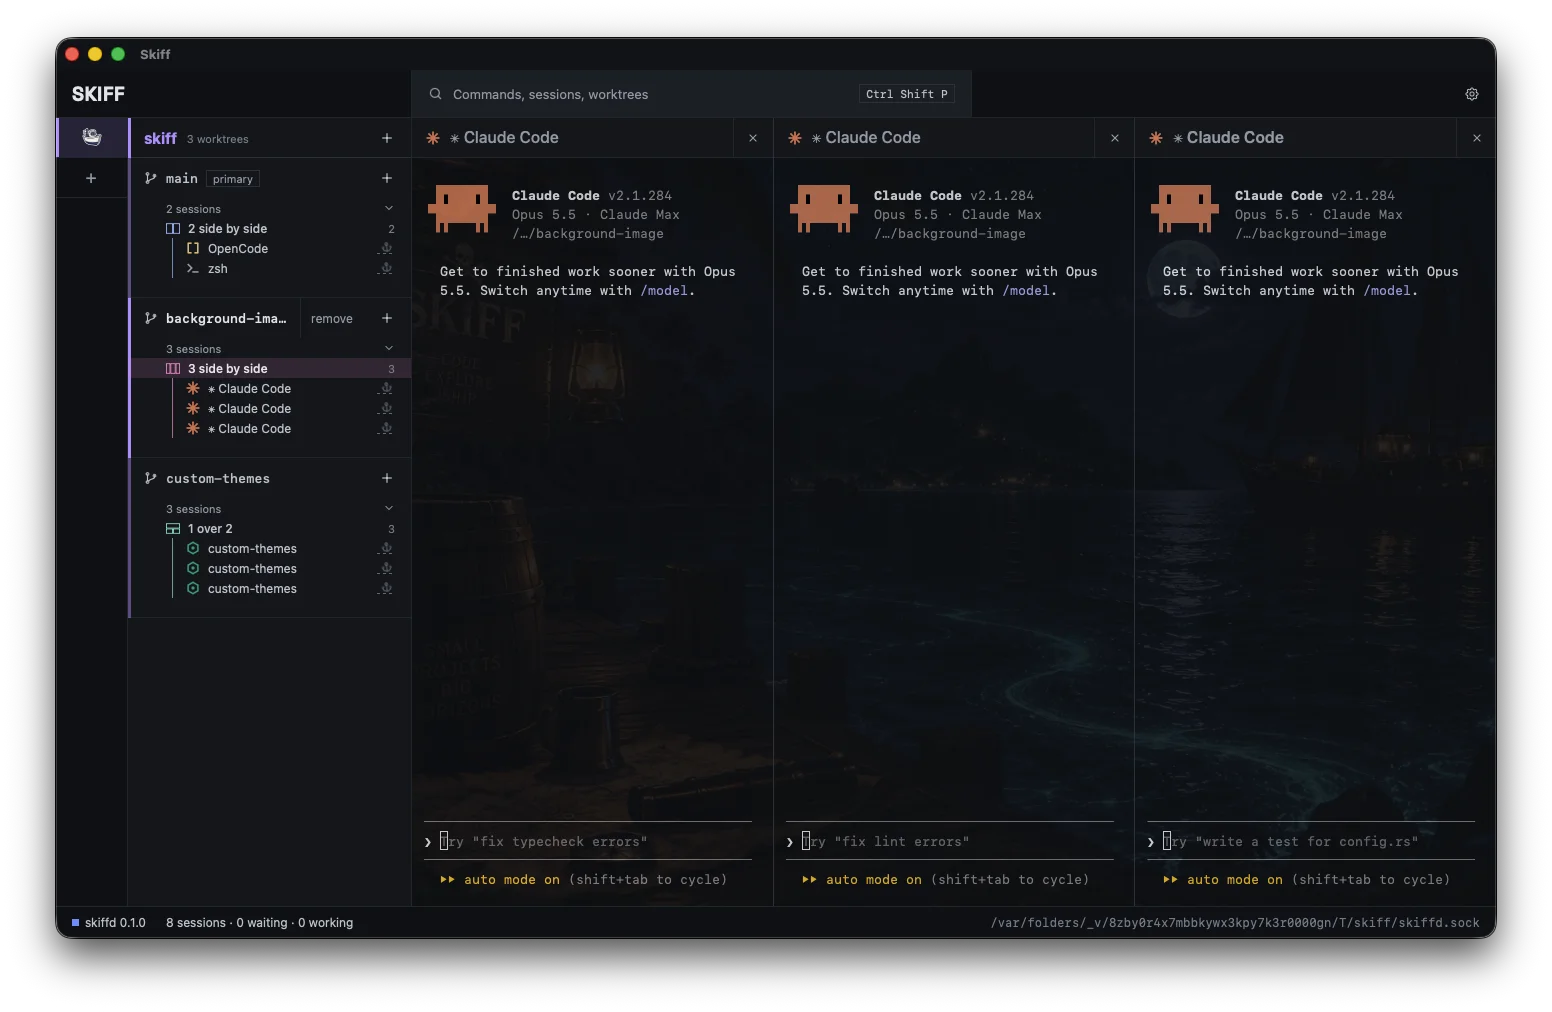
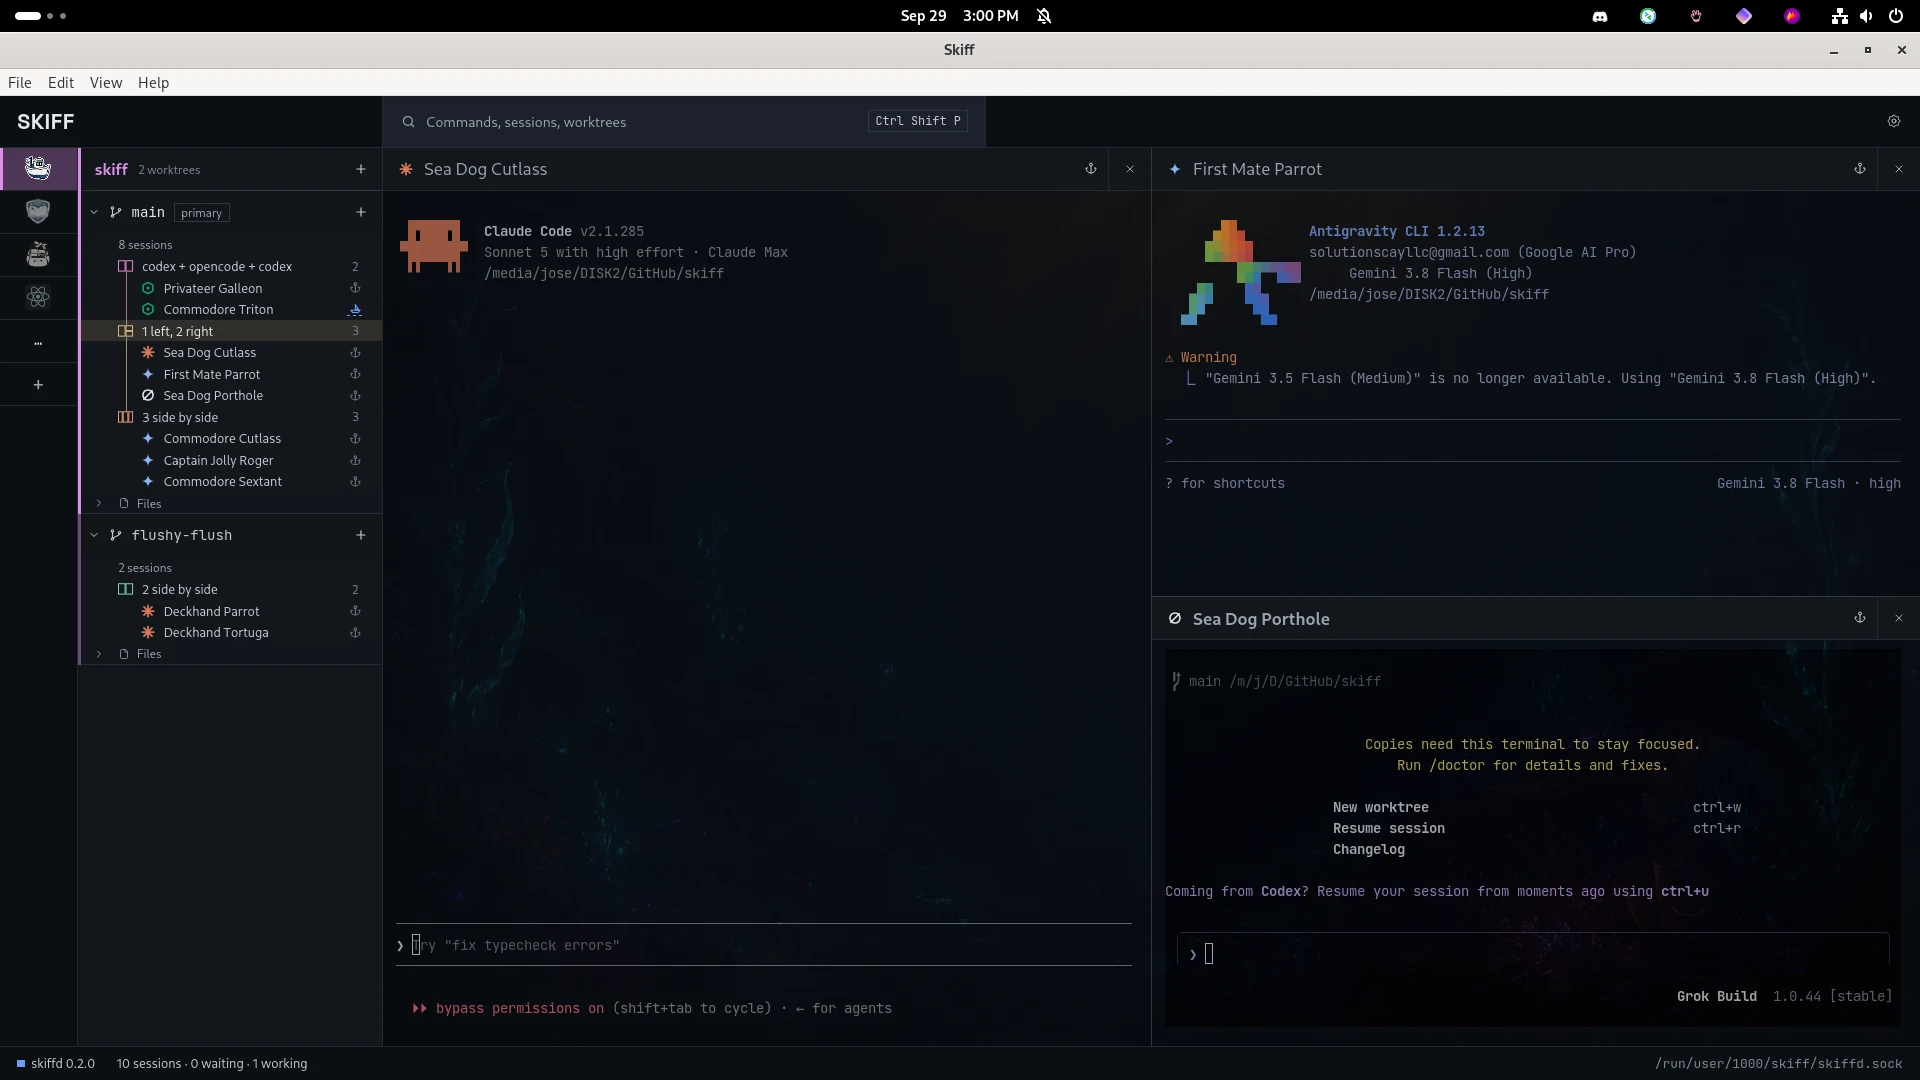
Point README and AGENTS.md at the wiki Glossary; refresh screenshot

diff --git a/README.md b/README.md
@@ -4,7 +4,7 @@
 
 A desktop app for running many coding agents side by side, on Linux and macOS.
 
-<p align="center"><img src=".github/screenshot.webp" alt="Skiff on macOS: a project with three worktrees, and three Claude Code sessions side by side over a project background"></p>
+<p align="center"><img src=".github/screenshot.webp" alt="Skiff on Linux: a project with two worktrees, and three agent sessions in a one-left, two-right layout over a project background"></p>
 
 You add a project (a Git repository), make worktrees in it, and start agent or shell sessions in each worktree. Sessions can sit side by side in a group. Each group has a name and a terminal theme, and so does each project.
 
@@ -26,6 +26,9 @@ apps/desktop         Tauri v2 app, vanilla TypeScript + xterm.js
 ```
 
 ## Development
+
+See the [wiki Glossary](https://github.com/solutionscay/skiff/wiki/Glossary) for the terms
+this codebase uses for its own screen areas, session-tree contents, and keyboard navigation.
 
 ```
 cd apps/desktop && pnpm install && pnpm tauri dev

diff --git a/AGENTS.md b/AGENTS.md
@@ -1,0 +1,18 @@
+# AGENTS.md
+
+Instructions for coding agents (and any other contributor) working in this repository.
+
+## Terminology
+
+Read the [wiki Glossary](https://github.com/solutionscay/skiff/wiki/Glossary) before
+changing anything under `apps/desktop/src` that touches the sidebar, the session tree, or
+keyboard navigation — `sidebar.ts`, `keyboard.ts`, `keys.ts`, `view.ts`, `layout.ts`,
+`terminal.ts`. It defines the terms this codebase uses for its own concepts (rail,
+sidebar/tree, pane, split, group, region, roving item, and the current keybinding scheme),
+so new code and comments stay consistent with the existing ones instead of inventing
+competing names for the same thing.
+
+## Development
+
+See the README's [Development](README.md#development) section for build and run
+instructions, and its [Layout](README.md#layout) section for what lives where.
